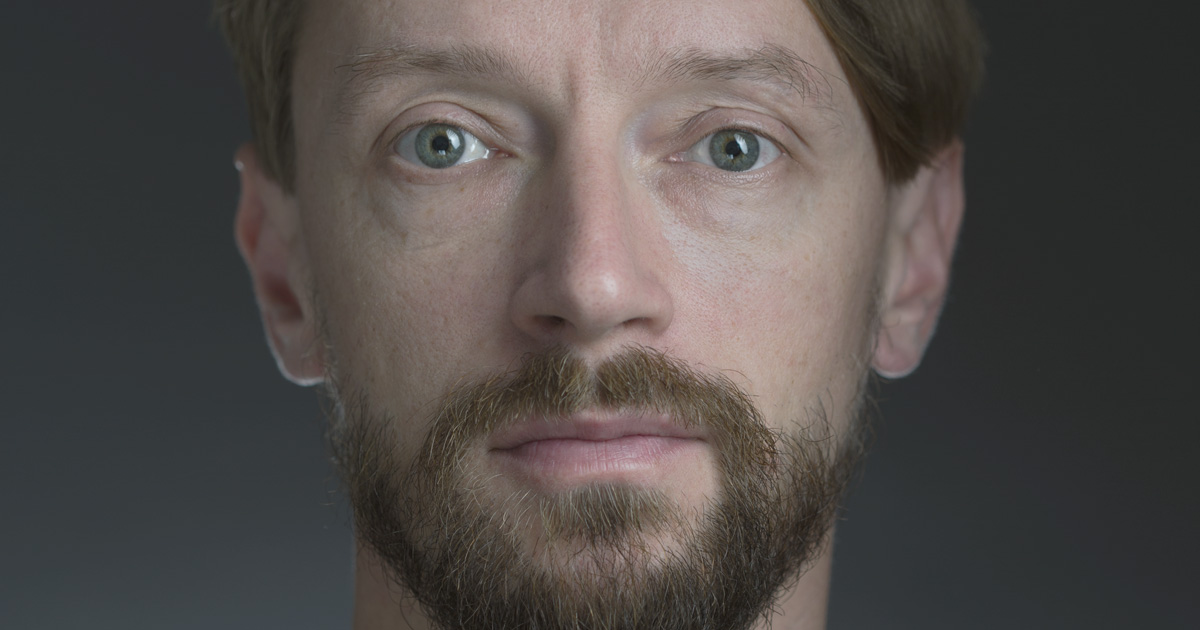
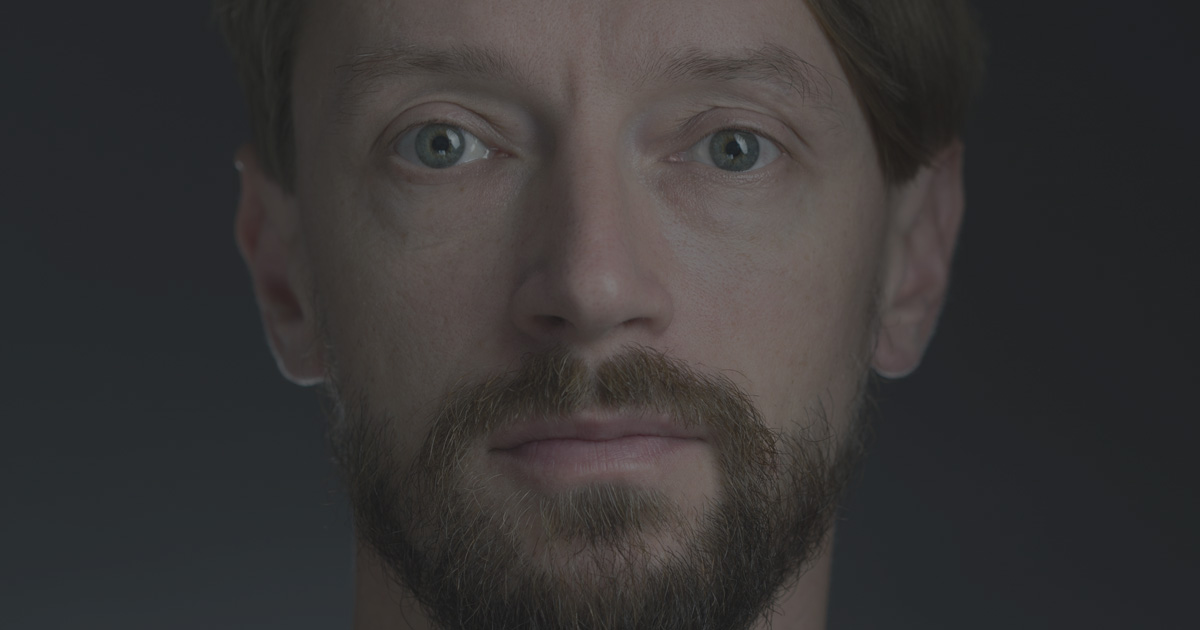
up

diff --git a/about/index.html b/about/index.html
@@ -51,12 +51,12 @@
 			<div class="container table">
 			<div class="row">
 				<div class="col col-xs-12 col-sm-5">
-					<img class="img-responsive center-block face-portrait" src="/images/alexander_andreev_large.jpg" alt="Hey!">
+					<img class="img-responsive center-block face-portrait" src="/images/alexander_andreev_large2.jpg" alt="Hey!">
 				</div>
 				<div class="col col-xs-12 col-sm-7 face-meta">
 					
 					<p>I am Alexander Andreev, a product designer from Moscow, Russia. 
-					<p><strong>From 2010 to mid 2015</strong> I worked at Zvooq — one of the leading music services in Russia. I started as Designer, then my responsibilities increased up to Product Design Lead. I was directly involved in a launch of the web service, launched and scaled a family of mobile applications. During my time at Zvooq, the company grew in size from 10 to 50+ people.</p>
+					<p><strong>From 2010 to mid 2015</strong> I worked at Zvooq — one of the leading music services in Russia. I started as Designer, then my responsibilities increased up to Product Design Lead. I was directly involved in a launch of the web version of Zvooq, and later launched and scaled a family of mobile applications. While I was responsible for product design in Zvooq, the company grew in size from 10 to 50+ people.</p>
 					
 					<p><strong>In 2000-2010</strong> I was doing design jobs for film and publishing industries, travelled for a year, worked for a design agency, designed websites, started a studio with friends, and did a thousand of other things.</p>
 			
@@ -96,15 +96,15 @@
 			<p>I enjoy being in the natural environment, especially in the mountains.</p>
 			
 			<p>I believe that sharing knowledge and empathy can help us have a better future.</p>
+			
+			
 
 
 	</br>
 		<h1 class="text-center">Contact</h1>
 		
-		<p>To get in touch, feel free to <a href="/fonoteka/">write me an email</a>, ping me on <a href="/fonoteka/">facebook</a>, send a <a href="/fonoteka/">twitter</a> or <a href="/fonoteka/">linkedin</a> message.</a>
+		<p>To get in touch, feel free to <a href="mailto:heyblackbox@gmail.com" target="_blank">write me an email</a>, ping me on <a href="https://www.facebook.com/alexander.andreyev" target="_blank">facebook</a>, send a <a href="http://twitter.com/heyblackbox" target="_blank">twitter</a> or <a href="https://www.linkedin.com/in/heyblackbox" target="_blank">linkedin</a> message.</a>
 			
-	
-		
 	</section>
 	</br></br>
 		

diff --git a/fonoteka/index.html b/fonoteka/index.html
@@ -50,7 +50,7 @@
     <div class="container-fluid accented_back text-center">
       <div class="container">  
         <h1>Fonoteka</h1>
-        <p class="lead">A simple app that allows you to take</br>your favorite music albums with you.</p>
+        <p class="lead">The simplest and the cheapest music app with a focus on albums listening.</p>
 				<hr>
         <img class="img-responsive center-block" src="/images/fonoteka_devices.png" alt="Fonoteka Mobile App">
       </div>
@@ -66,7 +66,7 @@
     
     <div class="container">
 			<section class="copy-section">
-				<p>Fonoteka is not like "another streaming music app". Put simply, it does just one thing &#8212; give access to several offline synced albums. And for some users, this one thing is better than using an all-in-one monster music app.</p>
+				<p>Fonoteka is not like "another streaming music app". Put simply, it does just one thing &#8212; give access to several offline synced albums. Nothing stands in the way between user and music.</p>
 			
 			<!-- 
 			</section>
@@ -87,9 +87,9 @@
 				
 		    <h3>Unbundling music</h3>
 
-		    <p>Fonoteka was a first mobile app from Zvooq music service. It was intended to be a part of the ecosystem of multiple apps, where each application is focused on a particular type of interaction and/or user behavior. This idea is being successfully implemented by other companies: Messenger &ndash; Paper &ndash; Facebook, Swarm &ndash; Foursquare, and others.</p>
+		    <p>Fonoteka was a first mobile app from Zvooq music service. It was intended to be a part of the ecosystem of multiple apps, where each application is focused on a particular type of interaction and/or user behavior. The concept of "unbundling" experiences was successfully implemented by Facebook with Messenger and Paper, Foursquare with Swarm, and other companies.</p>
 				<p>There are many kinds of interaction with music or around it. People connect to music in different ways.</p>
-		    <p>The mission of Fonoteka is to reveal (or bring back) the importance of music album as a form of art and make user into closer contact with the music.</p>
+		    <p>The mission of Fonoteka is to reveal the importance of music album as a form of art. To achieve this, nothing should stand in the way between a person and a music album.</p>
     
 		    <h3>Understanding users</h3>
     

diff --git a/landings/index.html b/landings/index.html
@@ -60,7 +60,7 @@
     <div class="container-fluid role"> 
 			<div class="container">
 				<section class="copy-section">
-   		 	<p>This story is more about designing workflow within the team. My goal was to optimize efforts, reduce load and get results faster.</p>
+   		 	   	<p>How I used prototypes to redesign workflow within the team and get results faster.</p>
 			</section>
     	</div>
 		</div>
@@ -79,19 +79,24 @@
 				<p>First of all, most our landing pages follow the same structure. They are read top to bottom and have actions both on top and bottom of the page. They explain the proposition, provide convincing information for user to make a decision, and offer easy way to do action. So I broke down the landing page into propositions, product descriptions, and action screens, some parts even more abstract: text block or titled text block, or image header.</p>
 
 
-
-				<p>Image: screen types and paper prototypes
-
-
-
+			</section>
+			
+			 <img class="img-responsive" src="/images/portfolio_landings_papers2.png">
+			
+			<section class="copy-section">
+			
 				<h3>When paper prototypes make sense</h3>
 
 				<p>Then I compiled a pdf document, which contained all required blocks. Some of those blocks were editable, some not. To begin work on a new flow, this pdf file should be printed, and cut into marked blocks. Then the resulting pile of paper is used to compile, test and initially approve the landing page design by stacking desired blocks in the right order and filling text messages by hand.</p>
+				
+				</section>
+			
+				 <img class="img-responsive" src="/images/portfolio_landings_papers.png">
+			
+				<section class="copy-section">
 
 				<p>Of course there are and there will be, fixes and redesigns on a live project. This is normal for most projects, especially in marketing and acquisition. But application of this method allowed developers to reuse more code, saved some designer and manager time and nerve cells, and significantly shortened the development cycle.</p>
 				
-				
-				<p>Image: multiple landing pages
 				</section>
 				
 		</div>

diff --git a/home/index.html b/home/index.html
@@ -76,7 +76,7 @@
 			<div class="meta">
   			<h2>Fonoteka</h2>
 				<p class="tags">concept, ux, ui</p>
-      	<p>Mobile app that brings music really close to the user, with nothing standing in the way</p>
+				<p>The simplest and the cheapest music app with a strong focus on albums listening</p>
 				
 				<a class="btn btn-primary btn-lg" type="button" href="/fonoteka/">View project</a>
     	</div>
